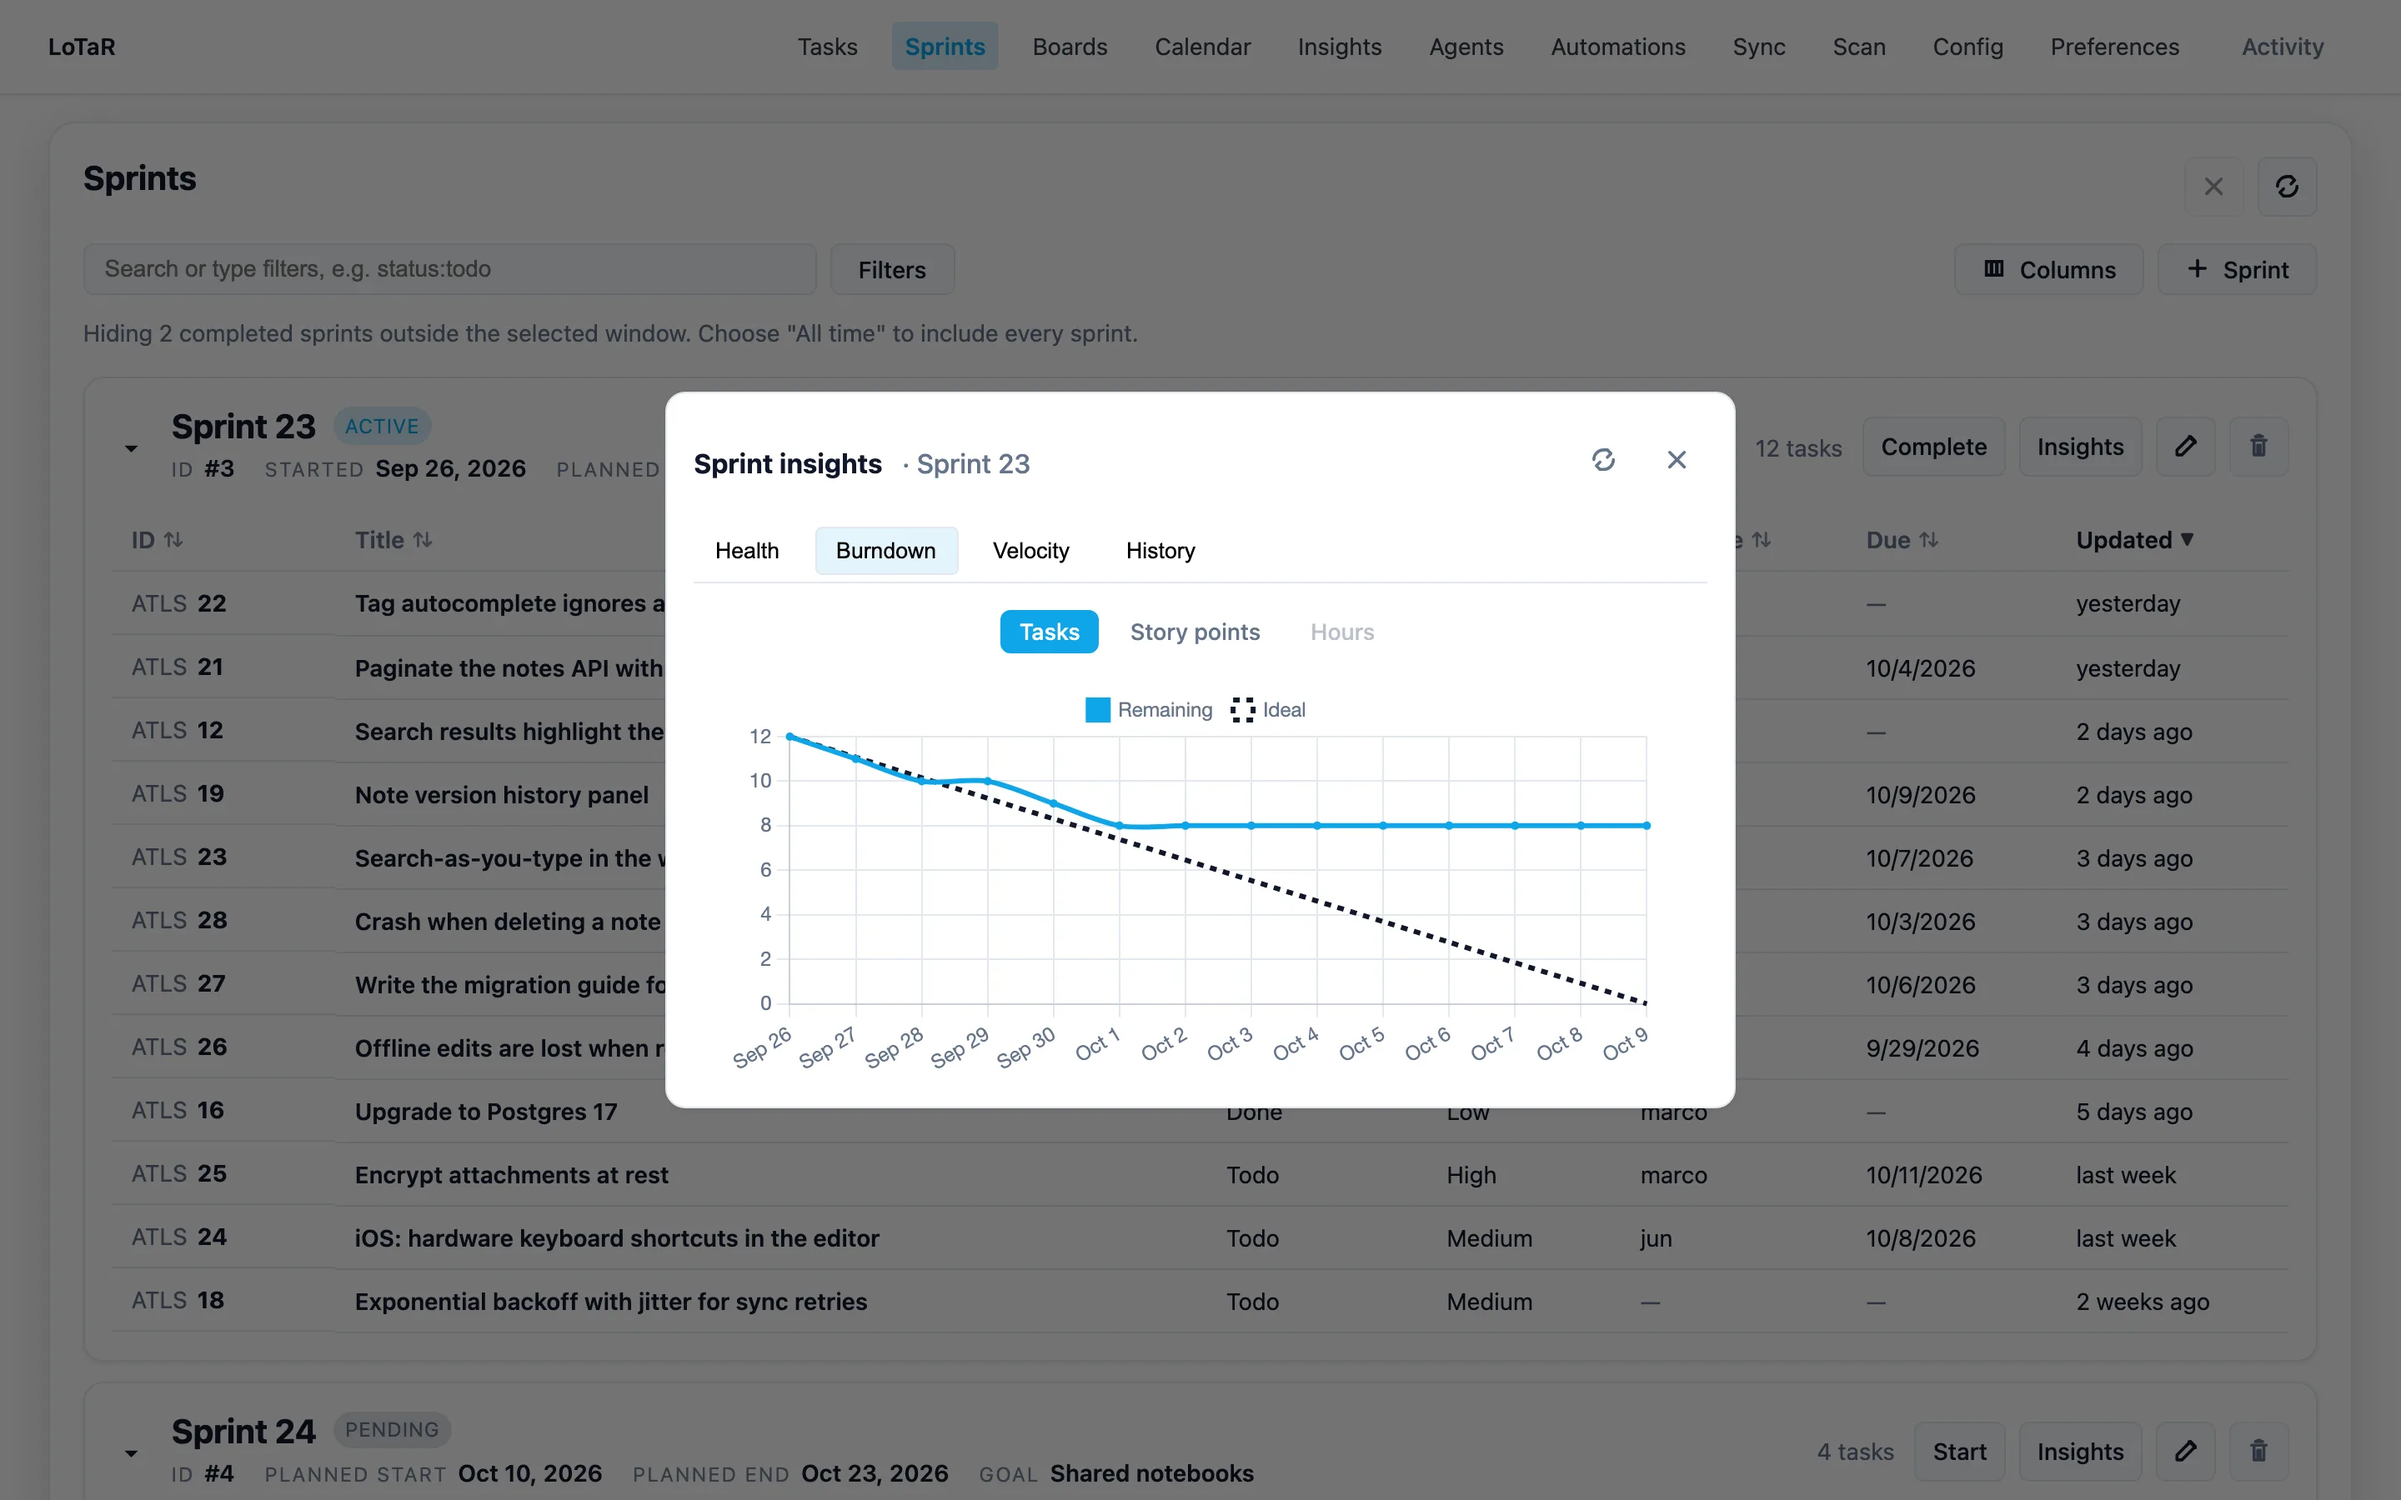
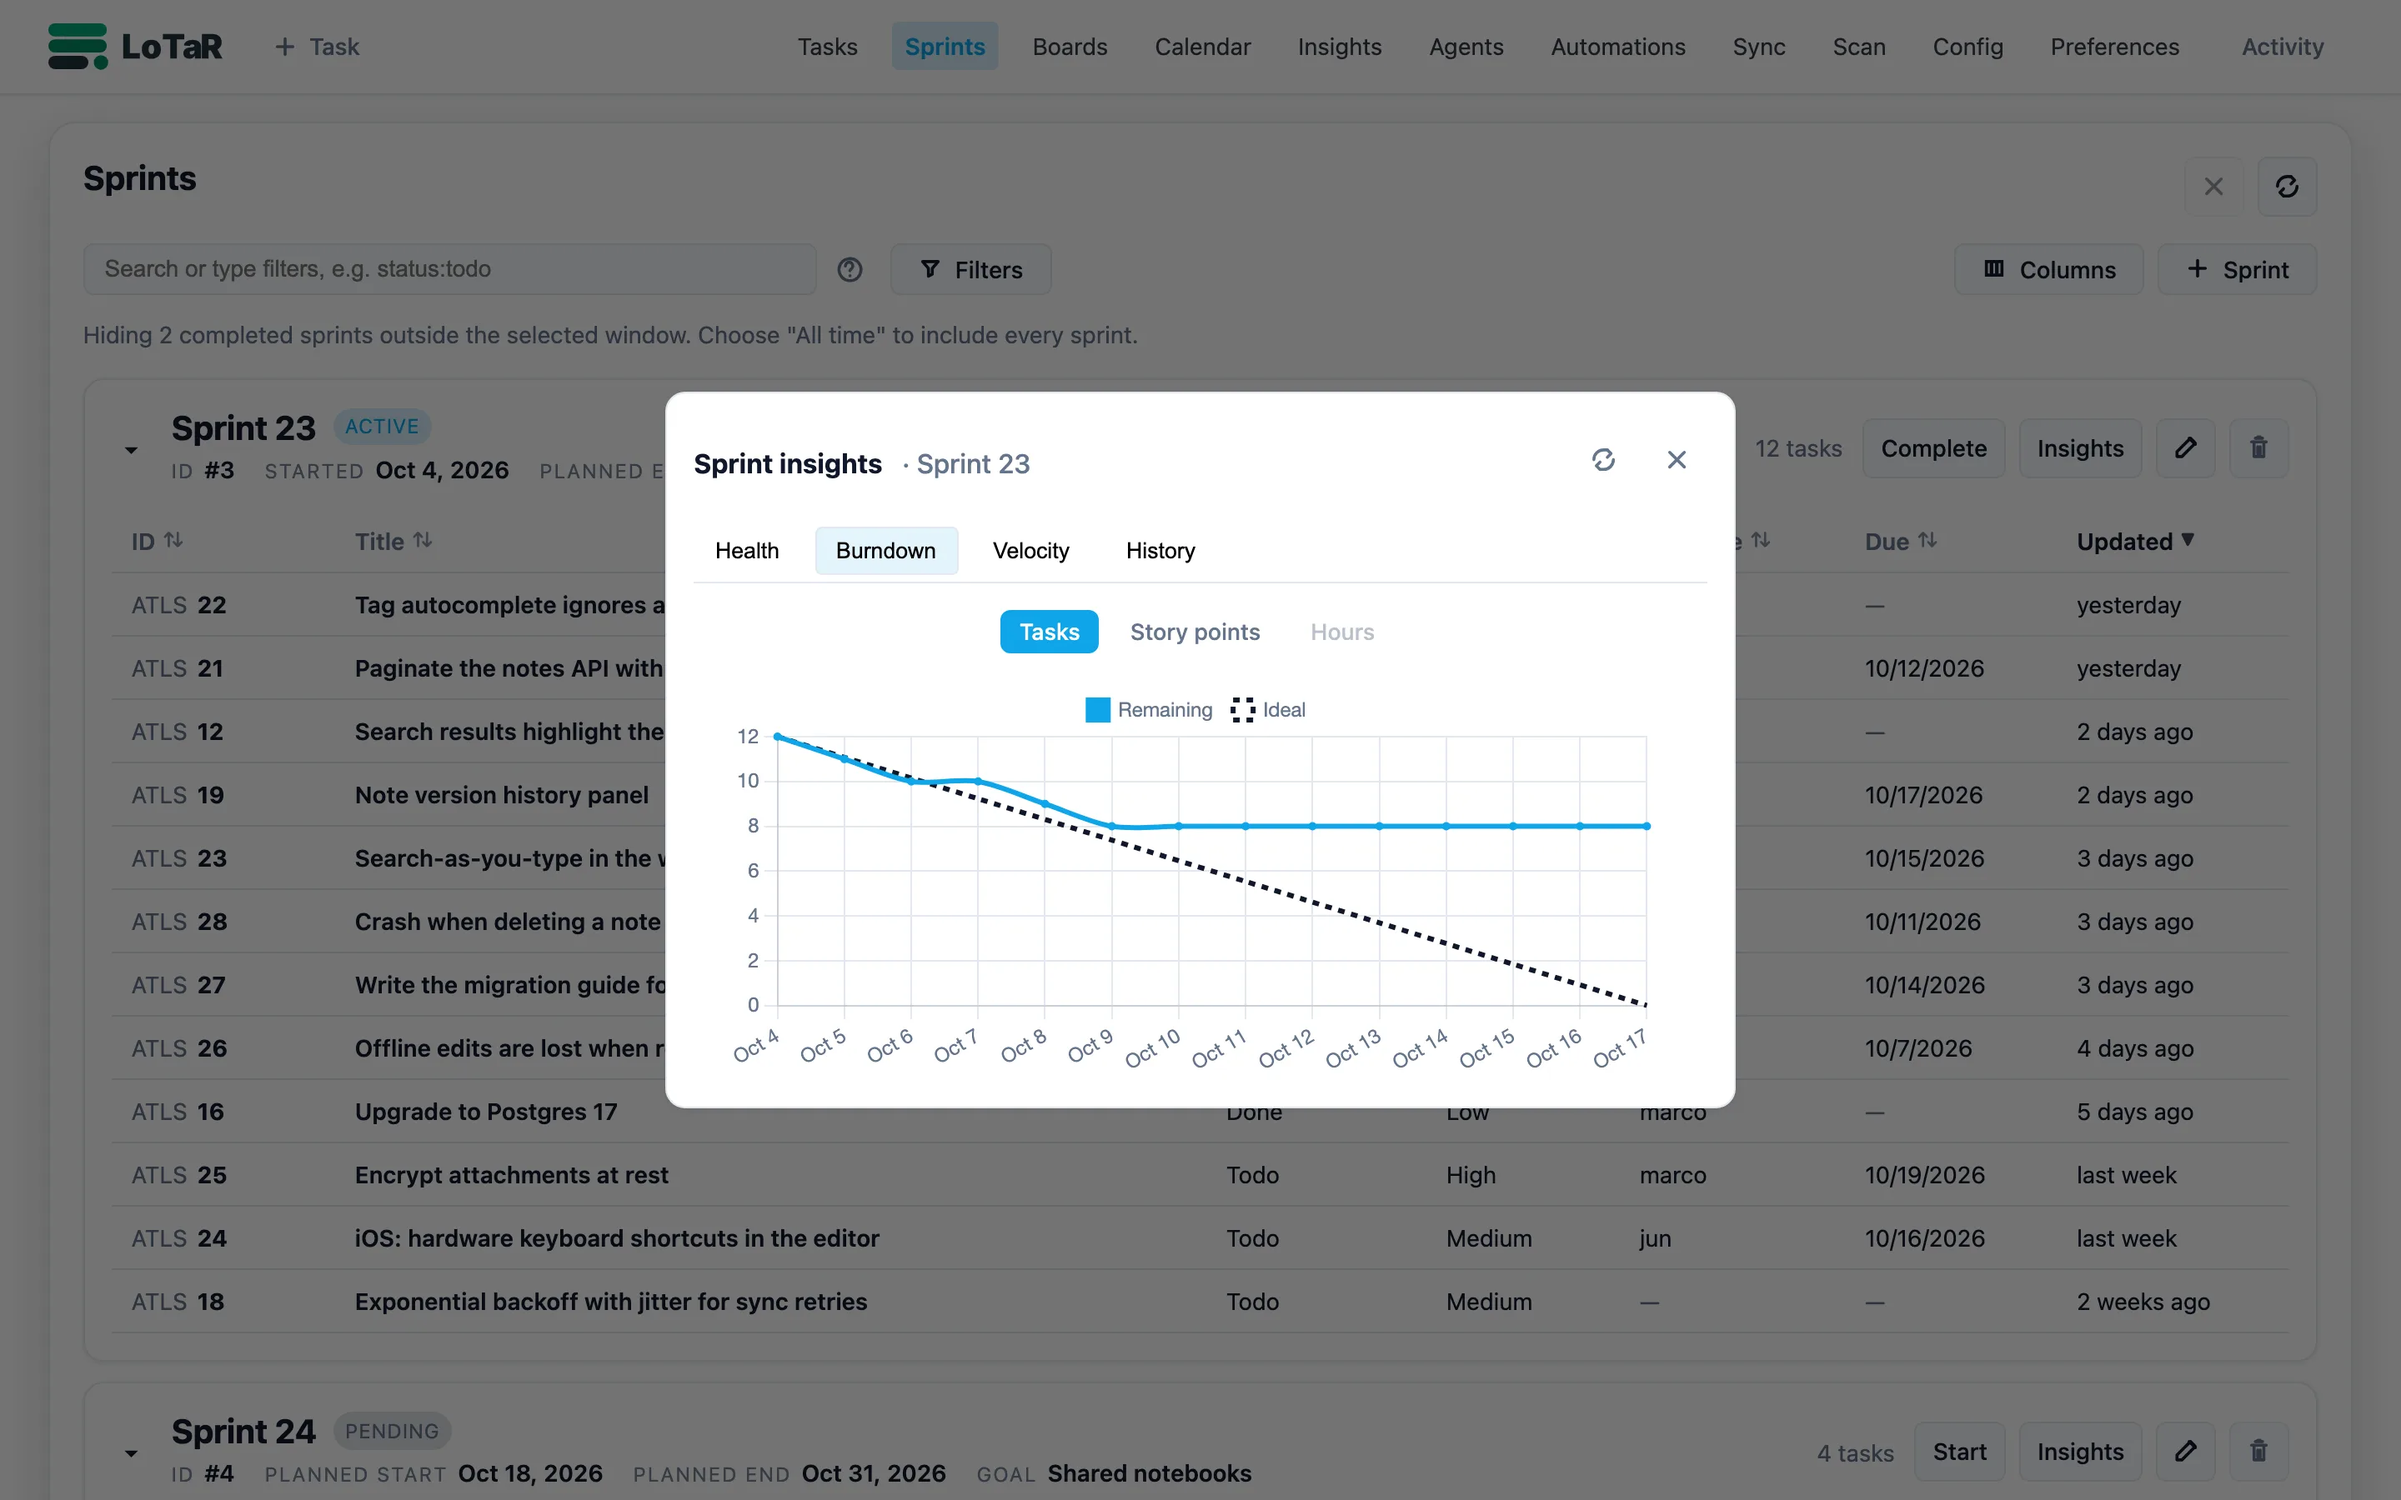
DEV-106 Refresh README screenshots for current branding and filter UI

diff --git a/README.md b/README.md
@@ -211,7 +211,9 @@ history:
 
 ## Contributing
 
-Bug reports and pull requests are welcome in [issues](https://github.com/localtaskrepo/lotar/issues); report security problems through a [private advisory](https://github.com/localtaskrepo/lotar/security/advisories/new). Development setup, test commands, and conventions are in [AGENTS.md](AGENTS.md) and [docs/developers/](docs/developers/README.md). After UI changes, `npm run screenshots` regenerates every image in this README.
+Bug reports and pull requests are welcome in [issues](https://github.com/localtaskrepo/lotar/issues); report security problems through a [private advisory](https://github.com/localtaskrepo/lotar/security/advisories/new). Development setup, test commands, and conventions are in [AGENTS.md](AGENTS.md) and [docs/developers/](docs/developers/README.md). After UI changes, `npm run screenshots` regenerates every image in this README using an isolated demo workspace.
+
+Full regeneration needs a Git-capable environment. `npm run screenshots -- --no-git` refreshes the non-Git UI screenshots while preserving the existing agent, hero, commit-history and terminal media.
 
 ## License
 
